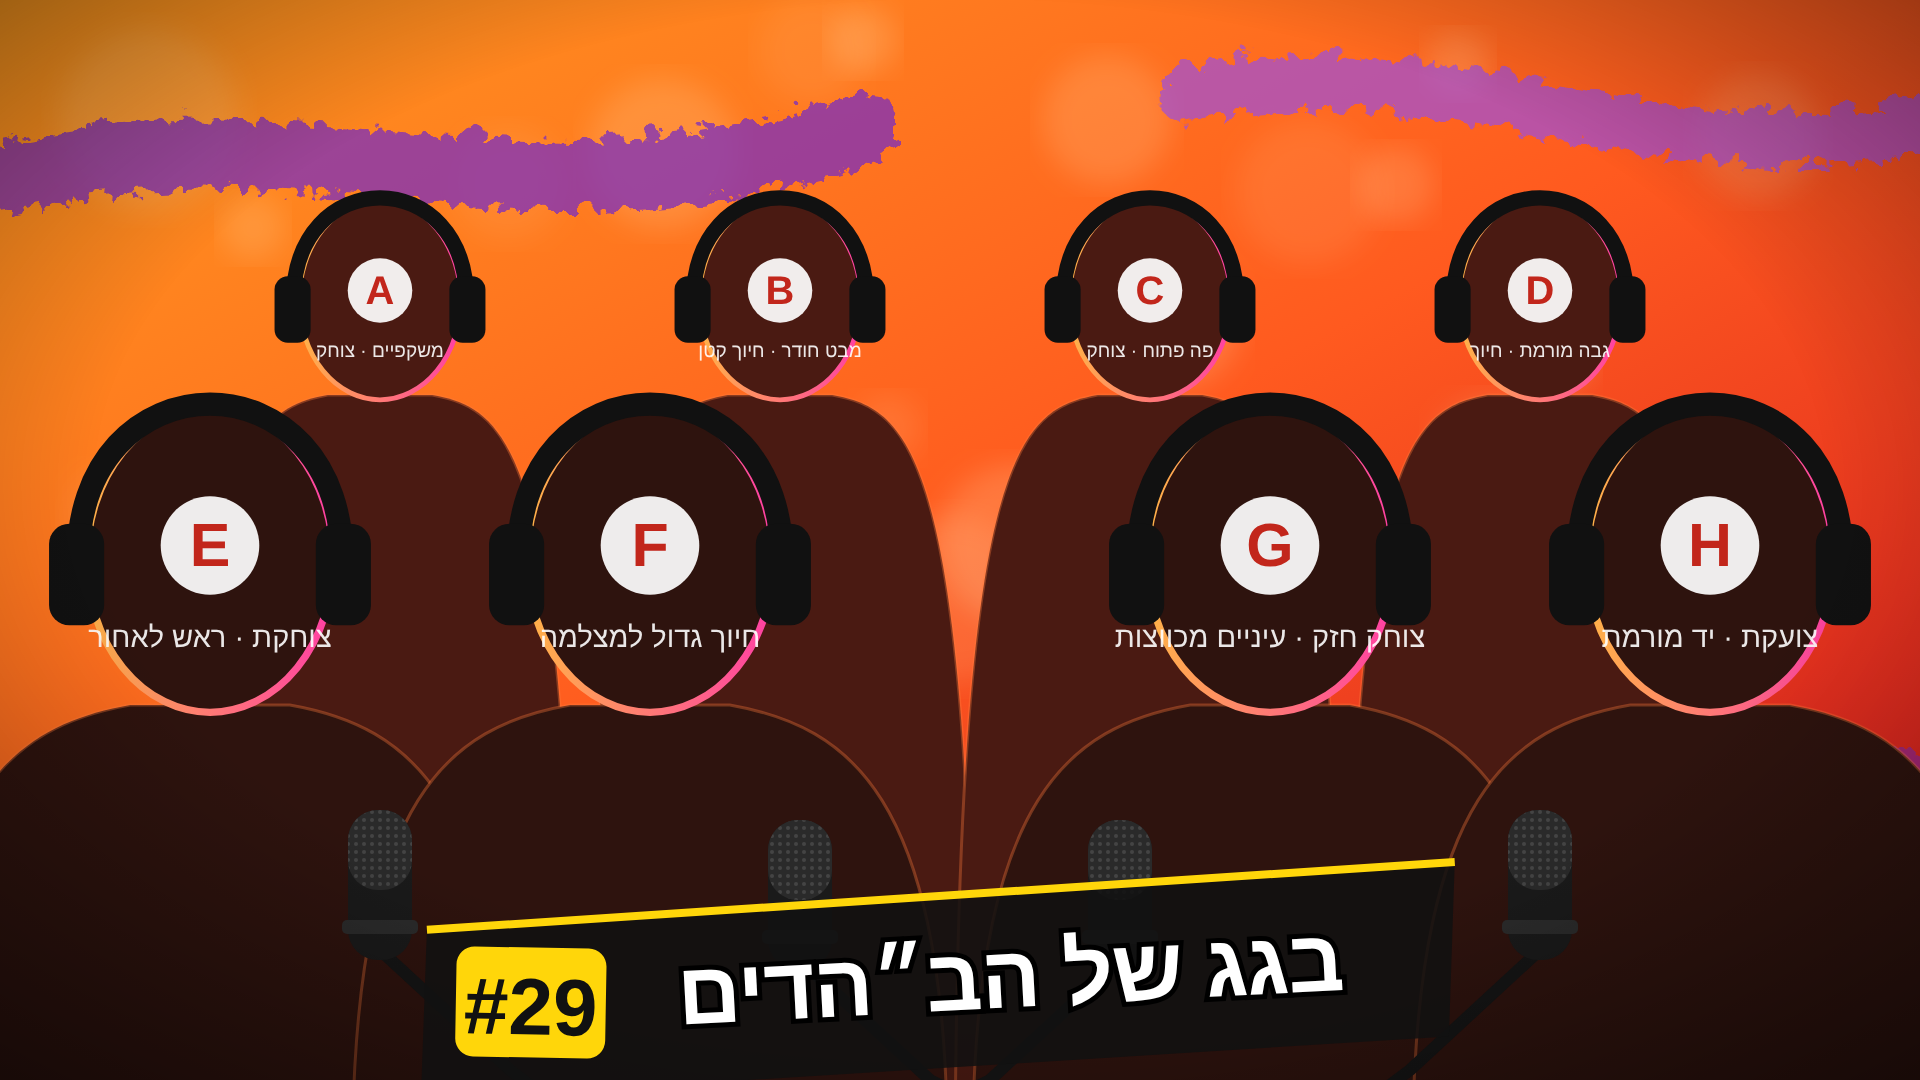
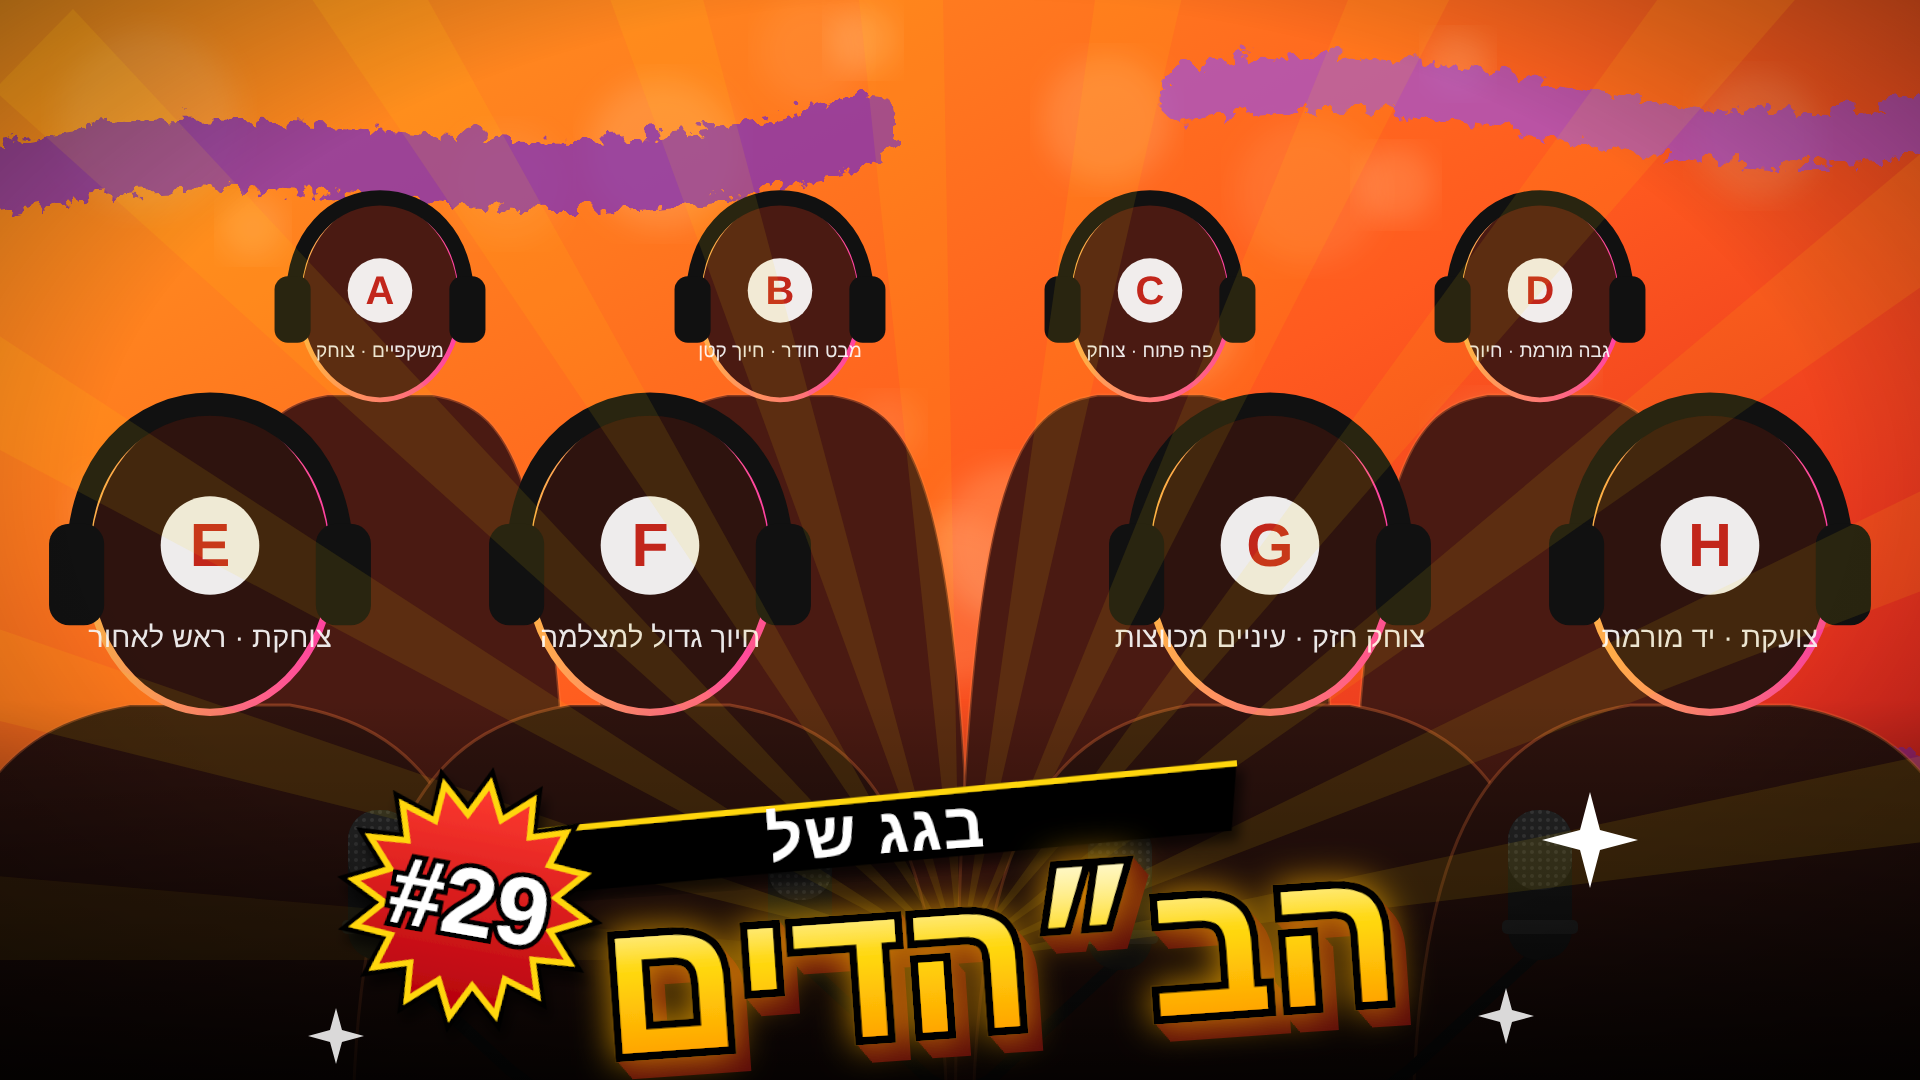
Make podcast thumbnail title bolder: 3D gold text, burst badge, light rays
Claude-Session: https://claude.ai/code/session_01Qx2HLTZk3aSQce5JKMUoRe

Changed region(s): [[0.0938, 0.7028, 0.9062, 1.0]]

diff --git a/podcast-thumbnail/thumbnail.html b/podcast-thumbnail/thumbnail.html
@@ -12,11 +12,32 @@
 <path d="M-87.25,1120 C-80.0,799.25 7.0,726.75 130.25,705.0 L289.75,705.0 C413.0,726.75 500.0,799.25 507.25,1120 Z" fill="#2e130e" stroke="#ff7a3d" stroke-opacity=".35" stroke-width="3"/><ellipse cx="210" cy="560" rx="123.25" ry="152.25" fill="#2e130e"/><ellipse cx="210" cy="560" rx="123.25" ry="152.25" fill="none" stroke="url(#rim)" stroke-width="7.25"/><path d="M78.05,567.25 C72.25,349.75 347.75,349.75 341.95,567.25" fill="none" stroke="#111" stroke-width="23.2" stroke-linecap="round"/><rect x="49.050000000000004" y="523.75" width="55.1" height="101.5" rx="20.3" fill="#111"/><rect x="315.85" y="523.75" width="55.1" height="101.5" rx="20.3" fill="#111"/><circle cx="210" cy="545.5" r="49.3" fill="#fff" fill-opacity=".92"/><text x="210" y="565.8" font-size="60.9" font-weight="800" text-anchor="middle" fill="#c2261b">E</text><text x="210" y="647.0" font-size="29.0" text-anchor="middle" fill="#fff" fill-opacity=".9">צוחקת · ראש לאחור</text><path d="M352.75,1120 C360.0,799.25 447.0,726.75 570.25,705.0 L729.75,705.0 C853.0,726.75 940.0,799.25 947.25,1120 Z" fill="#2e130e" stroke="#ff7a3d" stroke-opacity=".35" stroke-width="3"/><ellipse cx="650" cy="560" rx="123.25" ry="152.25" fill="#2e130e"/><ellipse cx="650" cy="560" rx="123.25" ry="152.25" fill="none" stroke="url(#rim)" stroke-width="7.25"/><path d="M518.05,567.25 C512.25,349.75 787.75,349.75 781.95,567.25" fill="none" stroke="#111" stroke-width="23.2" stroke-linecap="round"/><rect x="489.05" y="523.75" width="55.1" height="101.5" rx="20.3" fill="#111"/><rect x="755.85" y="523.75" width="55.1" height="101.5" rx="20.3" fill="#111"/><circle cx="650" cy="545.5" r="49.3" fill="#fff" fill-opacity=".92"/><text x="650" y="565.8" font-size="60.9" font-weight="800" text-anchor="middle" fill="#c2261b">F</text><text x="650" y="647.0" font-size="29.0" text-anchor="middle" fill="#fff" fill-opacity=".9">חיוך גדול למצלמה</text><path d="M972.75,1120 C980.0,799.25 1067.0,726.75 1190.25,705.0 L1349.75,705.0 C1473.0,726.75 1560.0,799.25 1567.25,1120 Z" fill="#2e130e" stroke="#ff7a3d" stroke-opacity=".35" stroke-width="3"/><ellipse cx="1270" cy="560" rx="123.25" ry="152.25" fill="#2e130e"/><ellipse cx="1270" cy="560" rx="123.25" ry="152.25" fill="none" stroke="url(#rim)" stroke-width="7.25"/><path d="M1138.05,567.25 C1132.25,349.75 1407.75,349.75 1401.95,567.25" fill="none" stroke="#111" stroke-width="23.2" stroke-linecap="round"/><rect x="1109.05" y="523.75" width="55.1" height="101.5" rx="20.3" fill="#111"/><rect x="1375.85" y="523.75" width="55.1" height="101.5" rx="20.3" fill="#111"/><circle cx="1270" cy="545.5" r="49.3" fill="#fff" fill-opacity=".92"/><text x="1270" y="565.8" font-size="60.9" font-weight="800" text-anchor="middle" fill="#c2261b">G</text><text x="1270" y="647.0" font-size="29.0" text-anchor="middle" fill="#fff" fill-opacity=".9">צוחק חזק · עיניים מכווצות</text><path d="M1412.75,1120 C1420.0,799.25 1507.0,726.75 1630.25,705.0 L1789.75,705.0 C1913.0,726.75 2000.0,799.25 2007.25,1120 Z" fill="#2e130e" stroke="#ff7a3d" stroke-opacity=".35" stroke-width="3"/><ellipse cx="1710" cy="560" rx="123.25" ry="152.25" fill="#2e130e"/><ellipse cx="1710" cy="560" rx="123.25" ry="152.25" fill="none" stroke="url(#rim)" stroke-width="7.25"/><path d="M1578.05,567.25 C1572.25,349.75 1847.75,349.75 1841.95,567.25" fill="none" stroke="#111" stroke-width="23.2" stroke-linecap="round"/><rect x="1549.05" y="523.75" width="55.1" height="101.5" rx="20.3" fill="#111"/><rect x="1815.85" y="523.75" width="55.1" height="101.5" rx="20.3" fill="#111"/><circle cx="1710" cy="545.5" r="49.3" fill="#fff" fill-opacity=".92"/><text x="1710" y="565.8" font-size="60.9" font-weight="800" text-anchor="middle" fill="#c2261b">H</text><text x="1710" y="647.0" font-size="29.0" text-anchor="middle" fill="#fff" fill-opacity=".9">צועקת · יד מורמת</text>
 <path d="M550,1100 L510,1070 L380,950" fill="none" stroke="#151515" stroke-width="12" stroke-linejoin="round"/><rect x="348" y="810" width="64" height="150" rx="30" fill="#1a1a1a"/><rect x="348" y="810" width="64" height="80" rx="30" fill="url(#grill)"/><rect x="342" y="920" width="76" height="14" rx="5" fill="#2b2b2b"/><path d="M970,1100 L930,1080 L800,960" fill="none" stroke="#151515" stroke-width="12" stroke-linejoin="round"/><rect x="768" y="820" width="64" height="150" rx="30" fill="#1a1a1a"/><rect x="768" y="820" width="64" height="80" rx="30" fill="url(#grill)"/><rect x="762" y="930" width="76" height="14" rx="5" fill="#2b2b2b"/><path d="M950,1100 L990,1080 L1120,960" fill="none" stroke="#151515" stroke-width="12" stroke-linejoin="round"/><rect x="1088" y="820" width="64" height="150" rx="30" fill="#1a1a1a"/><rect x="1088" y="820" width="64" height="80" rx="30" fill="url(#grill)"/><rect x="1082" y="930" width="76" height="14" rx="5" fill="#2b2b2b"/><path d="M1370,1100 L1410,1070 L1540,950" fill="none" stroke="#151515" stroke-width="12" stroke-linejoin="round"/><rect x="1508" y="810" width="64" height="150" rx="30" fill="#1a1a1a"/><rect x="1508" y="810" width="64" height="80" rx="30" fill="url(#grill)"/><rect x="1502" y="920" width="76" height="14" rx="5" fill="#2b2b2b"/>
 <rect width="1920" height="1080" fill="url(#vig)"/>
-<g transform="rotate(-3 960 975)">
-<path d="M430,902 L1460,888 L1445,1062 L415,1072 Z" fill="#111" fill-opacity=".88"/>
-<path d="M430,902 L1460,888" stroke="#ffd60a" stroke-width="8"/>
-<text x="1010" y="1010" font-size="88" font-weight="900" text-anchor="middle" fill="#fff" stroke="#000" stroke-width="10" paint-order="stroke" letter-spacing="-1">בגג של הב״הדים</text>
-<rect x="455" y="925" width="150" height="110" rx="18" fill="#ffd60a" transform="rotate(4 530 980)"/>
-<text x="530" y="1012" font-size="80" font-weight="900" text-anchor="middle" fill="#111" transform="rotate(4 530 980)" direction="ltr">#29</text>
+<defs>
+<linearGradient id="gold" x1="0" y1="0" x2="0" y2="1"><stop offset="0" stop-color="#fff7b0"/><stop offset=".45" stop-color="#ffd60a"/><stop offset="1" stop-color="#ff8c00"/></linearGradient>
+<linearGradient id="shine" x1="0" y1="0" x2="0" y2="1"><stop offset="0" stop-color="#fff" stop-opacity=".55"/><stop offset=".4" stop-color="#fff" stop-opacity="0"/></linearGradient>
+<linearGradient id="red" x1="0" y1="0" x2="0" y2="1"><stop offset="0" stop-color="#ff3b30"/><stop offset="1" stop-color="#b3000c"/></linearGradient>
+<filter id="glow" x="-20%" y="-40%" width="140%" height="180%"><feDropShadow dx="0" dy="0" stdDeviation="18" flood-color="#ffb000" flood-opacity=".75"/></filter>
+<filter id="drop"><feDropShadow dx="6" dy="10" stdDeviation="6" flood-color="#000" flood-opacity=".6"/></filter>
+<linearGradient id="fadeB" x1="0" y1="0" x2="0" y2="1"><stop offset="0" stop-color="#000" stop-opacity="0"/><stop offset="1" stop-color="#000" stop-opacity=".85"/></linearGradient>
+</defs>
+<rect x="0" y="700" width="1920" height="380" fill="url(#fadeB)"/>
+<path d="M960,960 L-340,960 L-335,847 Z" fill="#ffd60a" fill-opacity=".05"/><path d="M960,960 L-301,646 L-269,537 Z" fill="#ffd60a" fill-opacity=".10"/><path d="M960,960 L-188,350 L-130,252 Z" fill="#ffd60a" fill-opacity=".10"/><path d="M960,960 L-6,90 L73,9 Z" fill="#ffd60a" fill-opacity=".10"/><path d="M960,960 L233,-118 L330,-177 Z" fill="#ffd60a" fill-opacity=".10"/><path d="M960,960 L515,-262 L624,-296 Z" fill="#ffd60a" fill-opacity=".10"/><path d="M960,960 L824,-333 L937,-340 Z" fill="#ffd60a" fill-opacity=".10"/><path d="M960,960 L1141,-327 L1252,-307 Z" fill="#ffd60a" fill-opacity=".10"/><path d="M960,960 L1447,-245 L1550,-198 Z" fill="#ffd60a" fill-opacity=".10"/><path d="M960,960 L1724,-92 L1813,-21 Z" fill="#ffd60a" fill-opacity=".10"/><path d="M960,960 L1956,124 L2025,214 Z" fill="#ffd60a" fill-opacity=".10"/><path d="M960,960 L2128,390 L2174,494 Z" fill="#ffd60a" fill-opacity=".10"/><path d="M960,960 L2232,690 L2250,802 Z" fill="#ffd60a" fill-opacity=".10"/>
+<g transform="rotate(-4 960 960)">
+<g filter="url(#drop)">
+<path d="M520,800 L1250,780 L1240,850 L530,866 Z" fill="#000"/>
+<path d="M520,800 L1250,780 L1250,786 L520,806 Z" fill="#ffd60a"/>
+<text x="885" y="848" font-size="64" font-weight="900" text-anchor="middle" fill="#fff" letter-spacing="2">בגג של</text>
+</g>
+<text x="1014.4" y="1049.2" font-size="190" font-weight="900" text-anchor="middle" fill="#5a0a0a" stroke="#5a0a0a" stroke-width="14">הב״הדים</text><text x="1013.2" y="1047.6" font-size="190" font-weight="900" text-anchor="middle" fill="#5a0a0a" stroke="#5a0a0a" stroke-width="14">הב״הדים</text><text x="1012.0" y="1046.0" font-size="190" font-weight="900" text-anchor="middle" fill="#5a0a0a" stroke="#5a0a0a" stroke-width="14">הב״הדים</text><text x="1010.8" y="1044.4" font-size="190" font-weight="900" text-anchor="middle" fill="#5a0a0a" stroke="#5a0a0a" stroke-width="14">הב״הדים</text><text x="1009.6" y="1042.8" font-size="190" font-weight="900" text-anchor="middle" fill="#5a0a0a" stroke="#5a0a0a" stroke-width="14">הב״הדים</text><text x="1008.4" y="1041.2" font-size="190" font-weight="900" text-anchor="middle" fill="#5a0a0a" stroke="#5a0a0a" stroke-width="14">הב״הדים</text><text x="1007.2" y="1039.6" font-size="190" font-weight="900" text-anchor="middle" fill="#5a0a0a" stroke="#5a0a0a" stroke-width="14">הב״הדים</text><text x="1006.0" y="1038.0" font-size="190" font-weight="900" text-anchor="middle" fill="#5a0a0a" stroke="#5a0a0a" stroke-width="14">הב״הדים</text><text x="1004.8" y="1036.4" font-size="190" font-weight="900" text-anchor="middle" fill="#5a0a0a" stroke="#5a0a0a" stroke-width="14">הב״הדים</text><text x="1003.6" y="1034.8" font-size="190" font-weight="900" text-anchor="middle" fill="#5a0a0a" stroke="#5a0a0a" stroke-width="14">הב״הדים</text><text x="1002.4" y="1033.2" font-size="190" font-weight="900" text-anchor="middle" fill="#5a0a0a" stroke="#5a0a0a" stroke-width="14">הב״הדים</text><text x="1001.2" y="1031.6" font-size="190" font-weight="900" text-anchor="middle" fill="#5a0a0a" stroke="#5a0a0a" stroke-width="14">הב״הדים</text><text x="1000" y="1030" font-size="190" font-weight="900" text-anchor="middle" fill="url(#gold)" stroke="#000" stroke-width="16" paint-order="stroke" filter="url(#glow)">הב״הדים</text><text x="1000" y="1030" font-size="190" font-weight="900" text-anchor="middle" fill="url(#shine)">הב״הדים</text>
+</g>
+<g transform="rotate(10 470 900)" filter="url(#drop)">
+<polygon points="605,900 566,919 595,952 551,954 565,995 524,981 522,1025 489,996 470,1035 451,996 418,1025 416,981 375,995 389,954 345,952 374,919 335,900 374,881 345,848 389,846 375,805 416,819 418,775 451,804 470,765 489,804 522,775 524,819 565,805 551,846 595,848 566,881" fill="#000"/>
+<polygon points="588,900 554,917 579,945 542,948 553,983 518,972 515,1009 487,984 470,1018 453,984 425,1009 422,972 387,983 398,948 361,945 386,917 352,900 386,883 361,855 398,852 387,817 422,828 425,791 453,816 470,782 487,816 515,791 518,828 553,817 542,852 579,855 554,883" fill="url(#red)" stroke="#ffd60a" stroke-width="6"/>
+<text x="470" y="935" font-size="96" font-weight="900" text-anchor="middle" fill="#fff" stroke="#000" stroke-width="10" paint-order="stroke" direction="ltr">#29</text>
+</g>
+<g fill="#fff">
+<path d="M1580,830 l10,-38 l10,38 l38,10 l-38,10 l-10,38 l-10,-38 l-38,-10 Z"/>
+<path d="M1500,1010 l6,-22 l6,22 l22,6 l-22,6 l-6,22 l-6,-22 l-22,-6 Z" opacity=".85"/>
+<path d="M330,1030 l6,-22 l6,22 l22,6 l-22,6 l-6,22 l-6,-22 l-22,-6 Z" opacity=".85"/>
 </g>
 </svg></body></html>

diff --git a/podcast-thumbnail/gen.py b/podcast-thumbnail/gen.py
@@ -42,12 +42,33 @@ svg=f'''<svg xmlns="http://www.w3.org/2000/svg" width="{W}" height="{H}" font-fa
 {''.join(person(i,x,560,1.45,l,"#2e130e") for i,x,l in front)}
 {mic(380,880,1)}{mic(800,890,1)}{mic(1120,890,-1)}{mic(1540,880,-1)}
 <rect width="{W}" height="{H}" fill="url(#vig)"/>
-<g transform="rotate(-3 960 975)">
-<path d="M430,902 L1460,888 L1445,1062 L415,1072 Z" fill="#111" fill-opacity=".88"/>
-<path d="M430,902 L1460,888" stroke="#ffd60a" stroke-width="8"/>
-<text x="1010" y="1010" font-size="88" font-weight="900" text-anchor="middle" fill="#fff" stroke="#000" stroke-width="10" paint-order="stroke" letter-spacing="-1">בגג של הב״הדים</text>
-<rect x="455" y="925" width="150" height="110" rx="18" fill="#ffd60a" transform="rotate(4 530 980)"/>
-<text x="530" y="1012" font-size="80" font-weight="900" text-anchor="middle" fill="#111" transform="rotate(4 530 980)" direction="ltr">#29</text>
+<defs>
+<linearGradient id="gold" x1="0" y1="0" x2="0" y2="1"><stop offset="0" stop-color="#fff7b0"/><stop offset=".45" stop-color="#ffd60a"/><stop offset="1" stop-color="#ff8c00"/></linearGradient>
+<linearGradient id="shine" x1="0" y1="0" x2="0" y2="1"><stop offset="0" stop-color="#fff" stop-opacity=".55"/><stop offset=".4" stop-color="#fff" stop-opacity="0"/></linearGradient>
+<linearGradient id="red" x1="0" y1="0" x2="0" y2="1"><stop offset="0" stop-color="#ff3b30"/><stop offset="1" stop-color="#b3000c"/></linearGradient>
+<filter id="glow" x="-20%" y="-40%" width="140%" height="180%"><feDropShadow dx="0" dy="0" stdDeviation="18" flood-color="#ffb000" flood-opacity=".75"/></filter>
+<filter id="drop"><feDropShadow dx="6" dy="10" stdDeviation="6" flood-color="#000" flood-opacity=".6"/></filter>
+<linearGradient id="fadeB" x1="0" y1="0" x2="0" y2="1"><stop offset="0" stop-color="#000" stop-opacity="0"/><stop offset="1" stop-color="#000" stop-opacity=".85"/></linearGradient>
+</defs>
+<rect x="0" y="700" width="1920" height="380" fill="url(#fadeB)"/>
+<path d="M960,960 L-340,960 L-335,847 Z" fill="#ffd60a" fill-opacity=".05"/><path d="M960,960 L-301,646 L-269,537 Z" fill="#ffd60a" fill-opacity=".10"/><path d="M960,960 L-188,350 L-130,252 Z" fill="#ffd60a" fill-opacity=".10"/><path d="M960,960 L-6,90 L73,9 Z" fill="#ffd60a" fill-opacity=".10"/><path d="M960,960 L233,-118 L330,-177 Z" fill="#ffd60a" fill-opacity=".10"/><path d="M960,960 L515,-262 L624,-296 Z" fill="#ffd60a" fill-opacity=".10"/><path d="M960,960 L824,-333 L937,-340 Z" fill="#ffd60a" fill-opacity=".10"/><path d="M960,960 L1141,-327 L1252,-307 Z" fill="#ffd60a" fill-opacity=".10"/><path d="M960,960 L1447,-245 L1550,-198 Z" fill="#ffd60a" fill-opacity=".10"/><path d="M960,960 L1724,-92 L1813,-21 Z" fill="#ffd60a" fill-opacity=".10"/><path d="M960,960 L1956,124 L2025,214 Z" fill="#ffd60a" fill-opacity=".10"/><path d="M960,960 L2128,390 L2174,494 Z" fill="#ffd60a" fill-opacity=".10"/><path d="M960,960 L2232,690 L2250,802 Z" fill="#ffd60a" fill-opacity=".10"/>
+<g transform="rotate(-4 960 960)">
+<g filter="url(#drop)">
+<path d="M520,800 L1250,780 L1240,850 L530,866 Z" fill="#000"/>
+<path d="M520,800 L1250,780 L1250,786 L520,806 Z" fill="#ffd60a"/>
+<text x="885" y="848" font-size="64" font-weight="900" text-anchor="middle" fill="#fff" letter-spacing="2">בגג של</text>
+</g>
+<text x="1014.4" y="1049.2" font-size="190" font-weight="900" text-anchor="middle" fill="#5a0a0a" stroke="#5a0a0a" stroke-width="14">הב״הדים</text><text x="1013.2" y="1047.6" font-size="190" font-weight="900" text-anchor="middle" fill="#5a0a0a" stroke="#5a0a0a" stroke-width="14">הב״הדים</text><text x="1012.0" y="1046.0" font-size="190" font-weight="900" text-anchor="middle" fill="#5a0a0a" stroke="#5a0a0a" stroke-width="14">הב״הדים</text><text x="1010.8" y="1044.4" font-size="190" font-weight="900" text-anchor="middle" fill="#5a0a0a" stroke="#5a0a0a" stroke-width="14">הב״הדים</text><text x="1009.6" y="1042.8" font-size="190" font-weight="900" text-anchor="middle" fill="#5a0a0a" stroke="#5a0a0a" stroke-width="14">הב״הדים</text><text x="1008.4" y="1041.2" font-size="190" font-weight="900" text-anchor="middle" fill="#5a0a0a" stroke="#5a0a0a" stroke-width="14">הב״הדים</text><text x="1007.2" y="1039.6" font-size="190" font-weight="900" text-anchor="middle" fill="#5a0a0a" stroke="#5a0a0a" stroke-width="14">הב״הדים</text><text x="1006.0" y="1038.0" font-size="190" font-weight="900" text-anchor="middle" fill="#5a0a0a" stroke="#5a0a0a" stroke-width="14">הב״הדים</text><text x="1004.8" y="1036.4" font-size="190" font-weight="900" text-anchor="middle" fill="#5a0a0a" stroke="#5a0a0a" stroke-width="14">הב״הדים</text><text x="1003.6" y="1034.8" font-size="190" font-weight="900" text-anchor="middle" fill="#5a0a0a" stroke="#5a0a0a" stroke-width="14">הב״הדים</text><text x="1002.4" y="1033.2" font-size="190" font-weight="900" text-anchor="middle" fill="#5a0a0a" stroke="#5a0a0a" stroke-width="14">הב״הדים</text><text x="1001.2" y="1031.6" font-size="190" font-weight="900" text-anchor="middle" fill="#5a0a0a" stroke="#5a0a0a" stroke-width="14">הב״הדים</text><text x="1000" y="1030" font-size="190" font-weight="900" text-anchor="middle" fill="url(#gold)" stroke="#000" stroke-width="16" paint-order="stroke" filter="url(#glow)">הב״הדים</text><text x="1000" y="1030" font-size="190" font-weight="900" text-anchor="middle" fill="url(#shine)">הב״הדים</text>
+</g>
+<g transform="rotate(10 470 900)" filter="url(#drop)">
+<polygon points="605,900 566,919 595,952 551,954 565,995 524,981 522,1025 489,996 470,1035 451,996 418,1025 416,981 375,995 389,954 345,952 374,919 335,900 374,881 345,848 389,846 375,805 416,819 418,775 451,804 470,765 489,804 522,775 524,819 565,805 551,846 595,848 566,881" fill="#000"/>
+<polygon points="588,900 554,917 579,945 542,948 553,983 518,972 515,1009 487,984 470,1018 453,984 425,1009 422,972 387,983 398,948 361,945 386,917 352,900 386,883 361,855 398,852 387,817 422,828 425,791 453,816 470,782 487,816 515,791 518,828 553,817 542,852 579,855 554,883" fill="url(#red)" stroke="#ffd60a" stroke-width="6"/>
+<text x="470" y="935" font-size="96" font-weight="900" text-anchor="middle" fill="#fff" stroke="#000" stroke-width="10" paint-order="stroke" direction="ltr">#29</text>
+</g>
+<g fill="#fff">
+<path d="M1580,830 l10,-38 l10,38 l38,10 l-38,10 l-10,38 l-10,-38 l-38,-10 Z"/>
+<path d="M1500,1010 l6,-22 l6,22 l22,6 l-22,6 l-6,22 l-6,-22 l-22,-6 Z" opacity=".85"/>
+<path d="M330,1030 l6,-22 l6,22 l22,6 l-22,6 l-6,22 l-6,-22 l-22,-6 Z" opacity=".85"/>
 </g>
 </svg>'''
 open("thumbnail.svg","w").write(svg)
